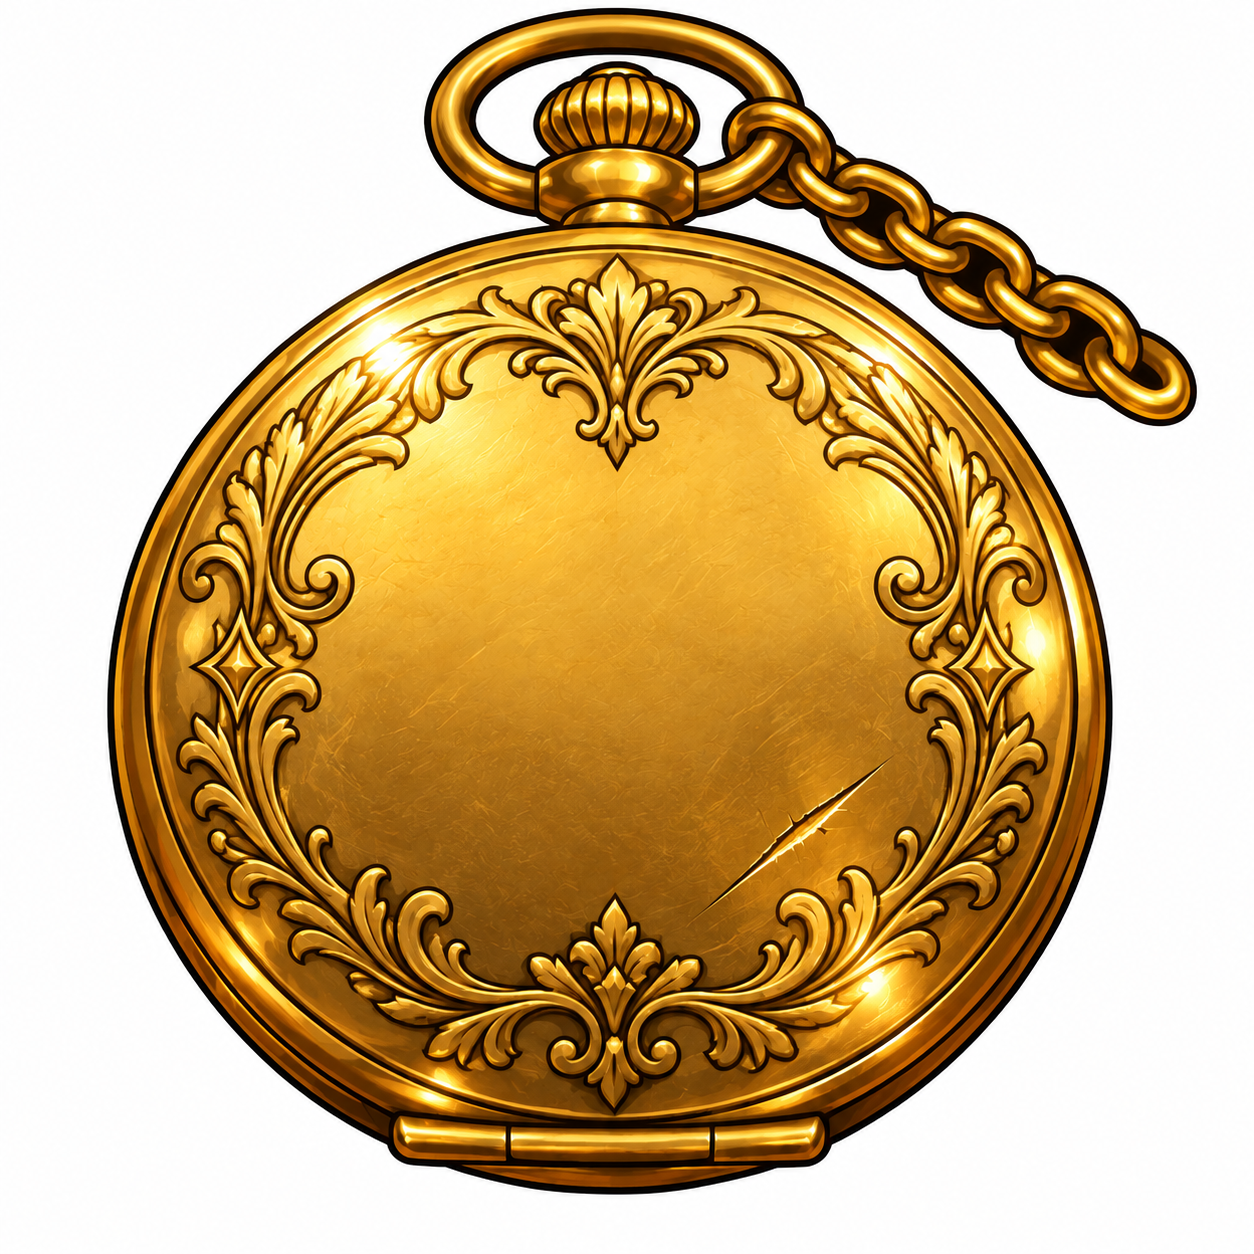
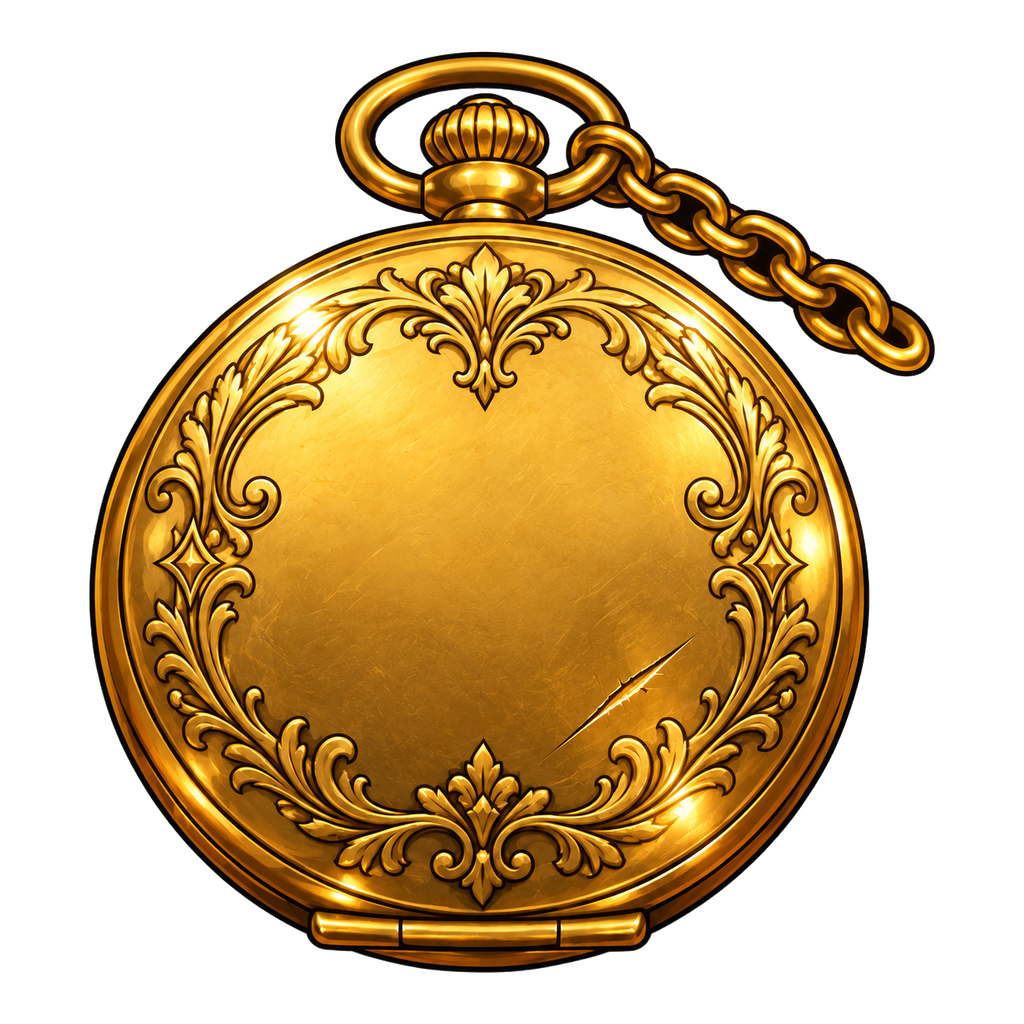
5화 증거/지도 정리: 투명 배경 처리, 문신·지도 직접 제작
- 증거 아이콘 9장 흰 배경 제거, 90% 크기로 통일
- ep5_tattoo: 번호 문신 확대 그림에서 잘라 만듦
- ep5_victims_icons: 검정 배경을 투명하게 처리
- ep5_camp_map, ep5_victims_map: 실제 해안선 자료로 제작
- ep5_camp_map_dots: 교과서 197쪽 지도의 수용소 14곳을 실제 좌표로 georeference해 옮김
- ep5_bags: 자료 보관처 도장 부분을 잘라냄
- 문서: 신발/가방 사진 파일명 분리, 5화 진행 상황 갱신

Claude-Session: https://claude.ai/code/session_01NHYzrX55wKaEEAPmcQpN8C

diff --git a/docs/스프라이트_목록.md b/docs/스프라이트_목록.md
@@ -416,8 +416,9 @@
 | 4 | `ep4_kristallnacht` | 수정의 밤, 깨진 유리창 사진 | |
 | 4 | `ep4_anne_frank_diary` | 안네 프랑크의 일기장 사진 | |
 | 4 | `ep4_schindler` | 오스카 쉰들러 사진 | |
-| 5 | `ep5_auschwitz_gate` | 아우슈비츠 정문 사진 | 교과서 197쪽 |
-| 5 | `ep5_shoes_bags` | 신발과 가방 더미 사진 | 가방에 적힌 이름 부분 클로즈업 필요 |
+| 5 | `ep5_auschwitz_gate` | 아우슈비츠 정문 사진 | |
+| 5 | `ep5_shoes` | 신발 더미 사진 | |
+| 5 | `ep5_bags` | 가방 더미 사진 | 이름이 보이는 부분만 잘라 둠 |
 | 6 | `ep6_t4_order` | T4 작전 명령서 문서 사진 | 서명 확대 장면이 있음. 히틀러 서명을 AI로 만들지 않기 위해 실제 문서를 씀 |
 | 6 | `ep6_eichmann_trial_witness` | 1961년 생존자 증언 사진 | 선택 |
 
@@ -542,4 +543,5 @@ ChatGPT에 한 번에 여러 장(따로 된 그림)을 요청해서 만든다.
 7. 2화에 필요한 그림: 인물, 배경, 연출 컷, 증거, 지도 모두 완료 (`ep2_scar`는 흉터 확대 그림에서 잘라 만듦)
 8. 3화에 필요한 그림: 인물, 배경, 연출 컷, 증거, 지도, 실제 사진 모두 완료
 9. 4화에 필요한 그림: 인물, 배경, 연출 컷, 증거, 지도, 실제 사진 모두 완료 (마르타 우는 모습 `marta_cry` 추가)
-10. 5화부터 차례로
+10. 5화에 필요한 그림: 배경, 연출 컷, 증거, 지도, 실제 사진 완료. 인물(5-A~5-C)은 아직 올라오지 않음
+11. 6화부터 차례로
